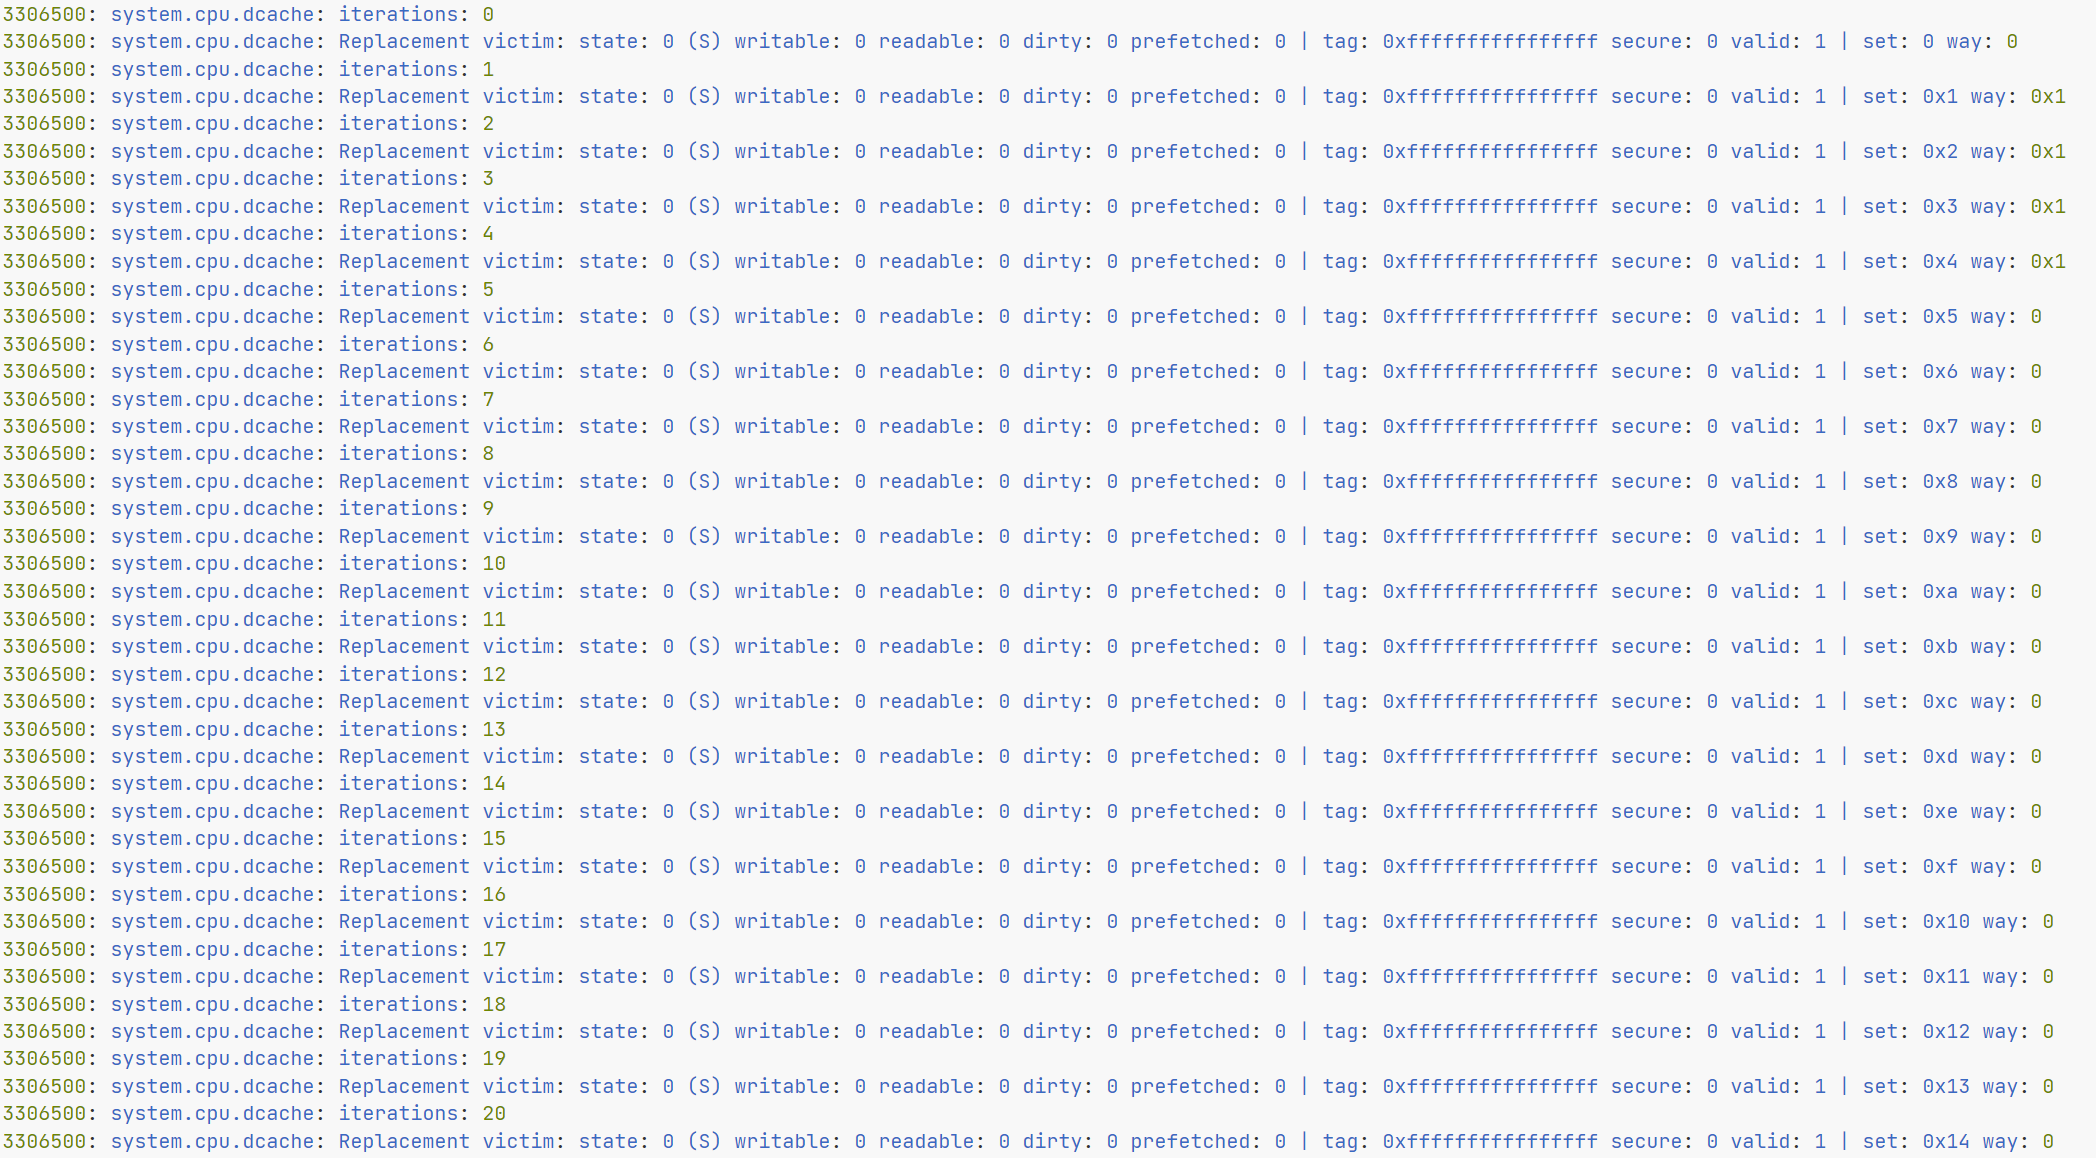
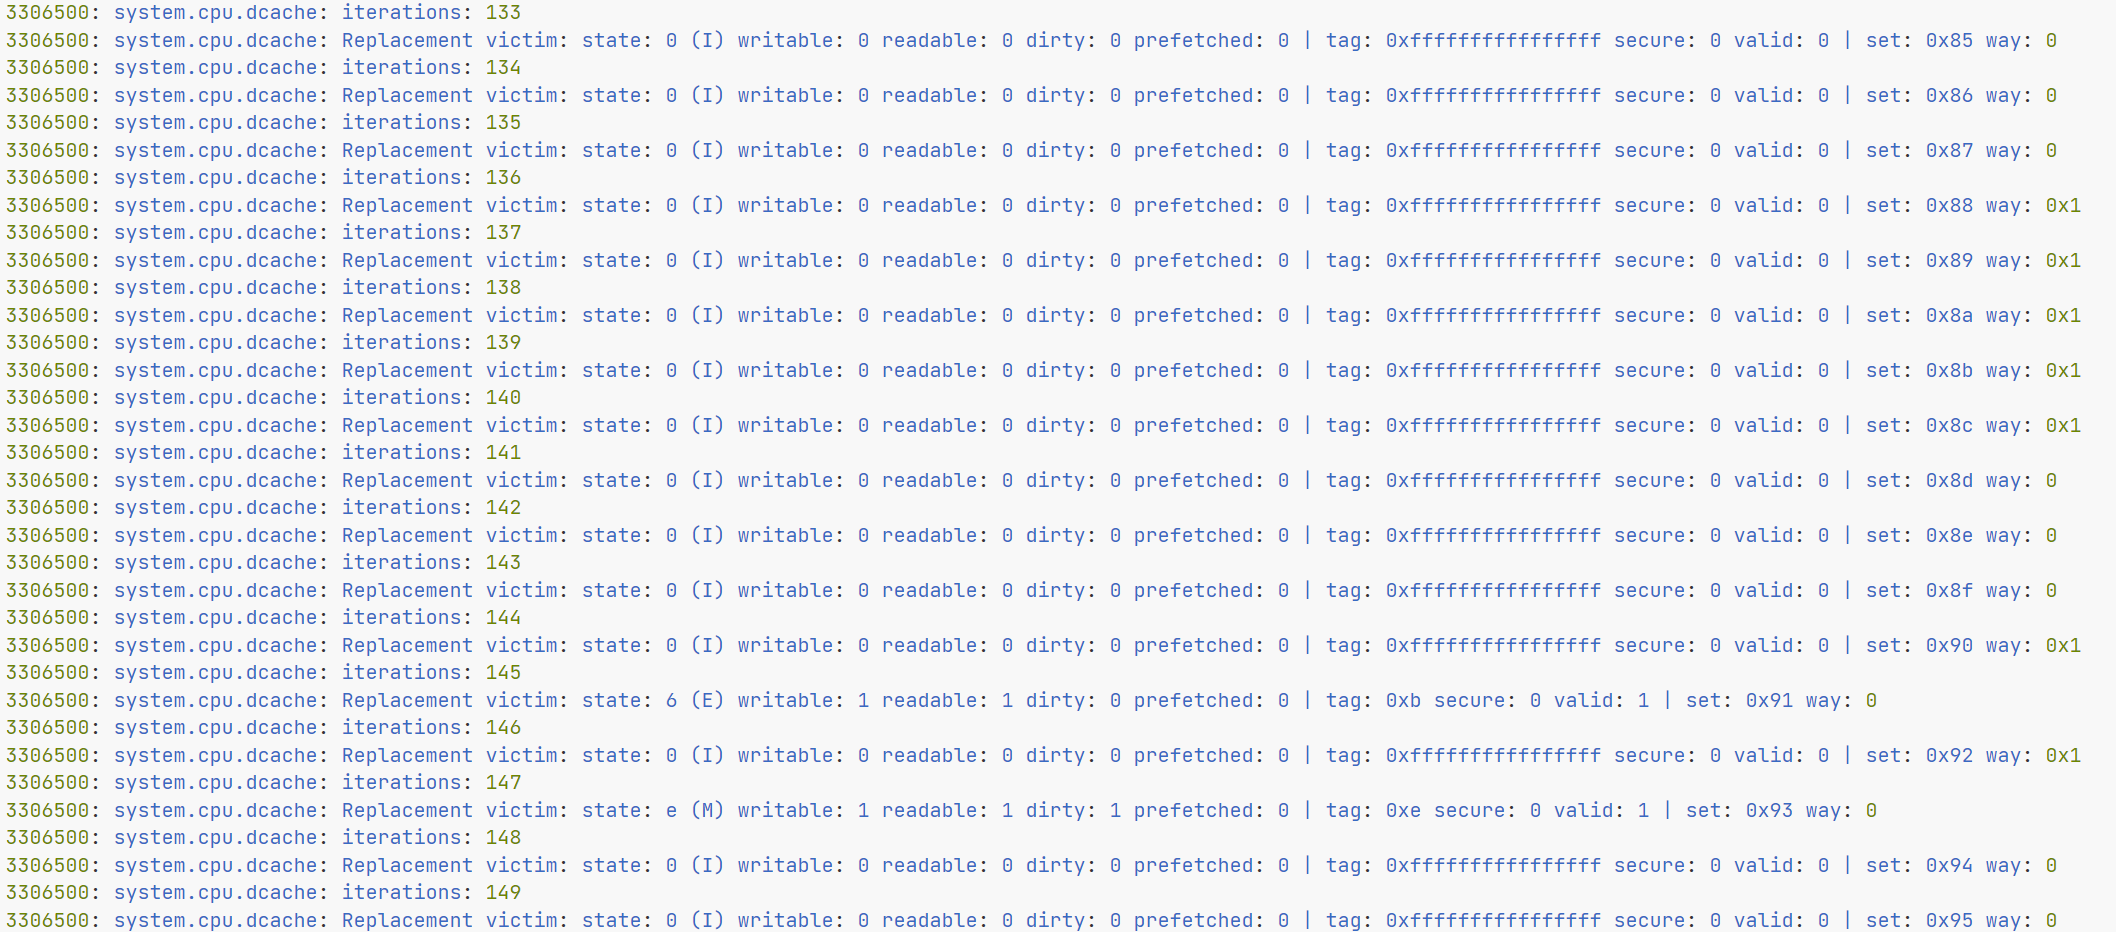
answer a question

Changed region(s): [[0.0, 0.0, 0.9924, 0.9957]]

diff --git a/readme.md b/readme.md
@@ -275,6 +275,8 @@ riscv64-unknown-elf-gcc -DPASS2  dry.c dry1.o  -o dry -static
 
 在调试的过程中意外地发现`victim->print()`运行后有时候会将`pkt`的`VALID_ADDR`flag消除，这让我感到意外，作为一个问题，等有空的时候排查一下。最后，在查看源码的过程中，我找到了addr的set号移位数，因此在dump操作函数中根据block的个数循环调用`allocateBlock`函数，函数的addr变量根据之前找到的移位数进行移位。最终效果能够在不确定policy的情况下，将line全部dump出来。
 
+在重新测试的过程中发现一些小问题，并进行了修改，例如`se.py`中的dcache默认应该为512 sets。
+
 ![dump_cache](img/dump_cache.png)
 
 **遗留的问题：**
@@ -282,6 +284,12 @@ riscv64-unknown-elf-gcc -DPASS2  dry.c dry1.o  -o dry -static
 > `victim->print()`函数调用为什么会修改pkt的`VALID_ADDR`flag呢？
 
 > 为什么tag都是**0xffffffffffffffff**呢？
+>
+> 对于这个问题，我并不能给出很明确的解释。但是，在我重新检测并修复一些bug后，发现后面的一些victim block，它们的tag并不为0xffffffffffffffff，同时它们的victim state也不为I，而是M或者E。关于*MOESI*，我去查询了相关的资料后得知这是一种缓存一致性协议，那么根据其状态，我猜测是因为这些cache line从未写入过数据，是无效的，其tag被默认设置为0xffffffffffffffff。
+>
+> * Modified：This cache has the only valid copy of the cache line, and has made changes to that copy.
+> * Exclusive：This cache has the only copy of the line, but the line is clean (unmodified).
+> * Invalid：This block is not valid; it must be fetched to satisfy any attempted access.
 
 ## Debug
 
